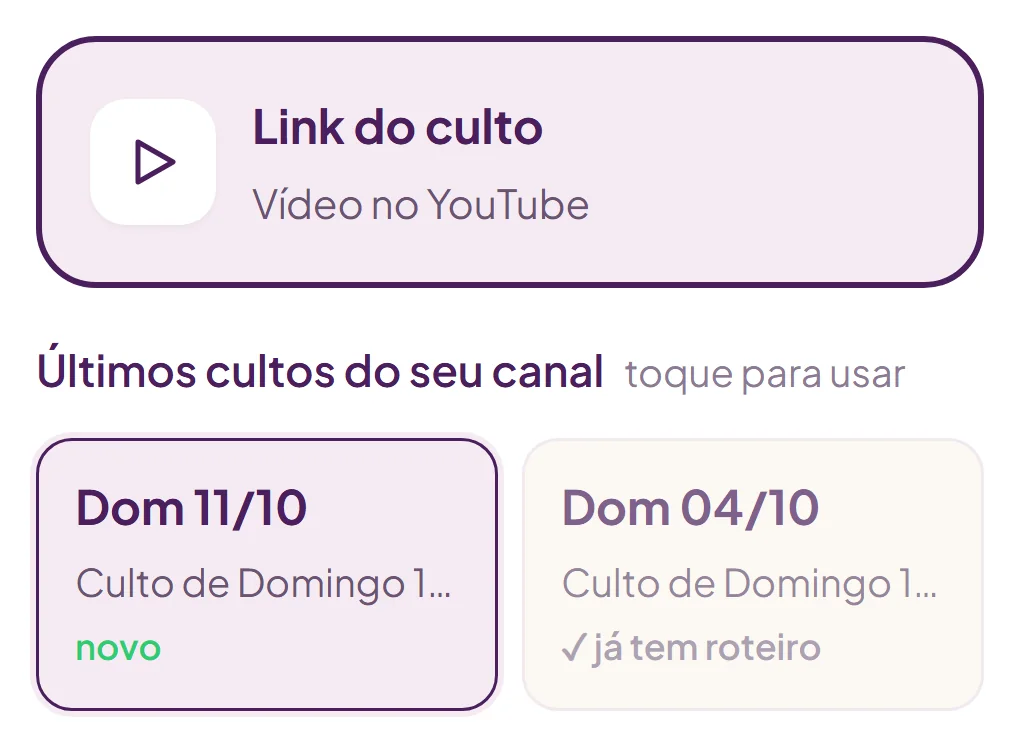
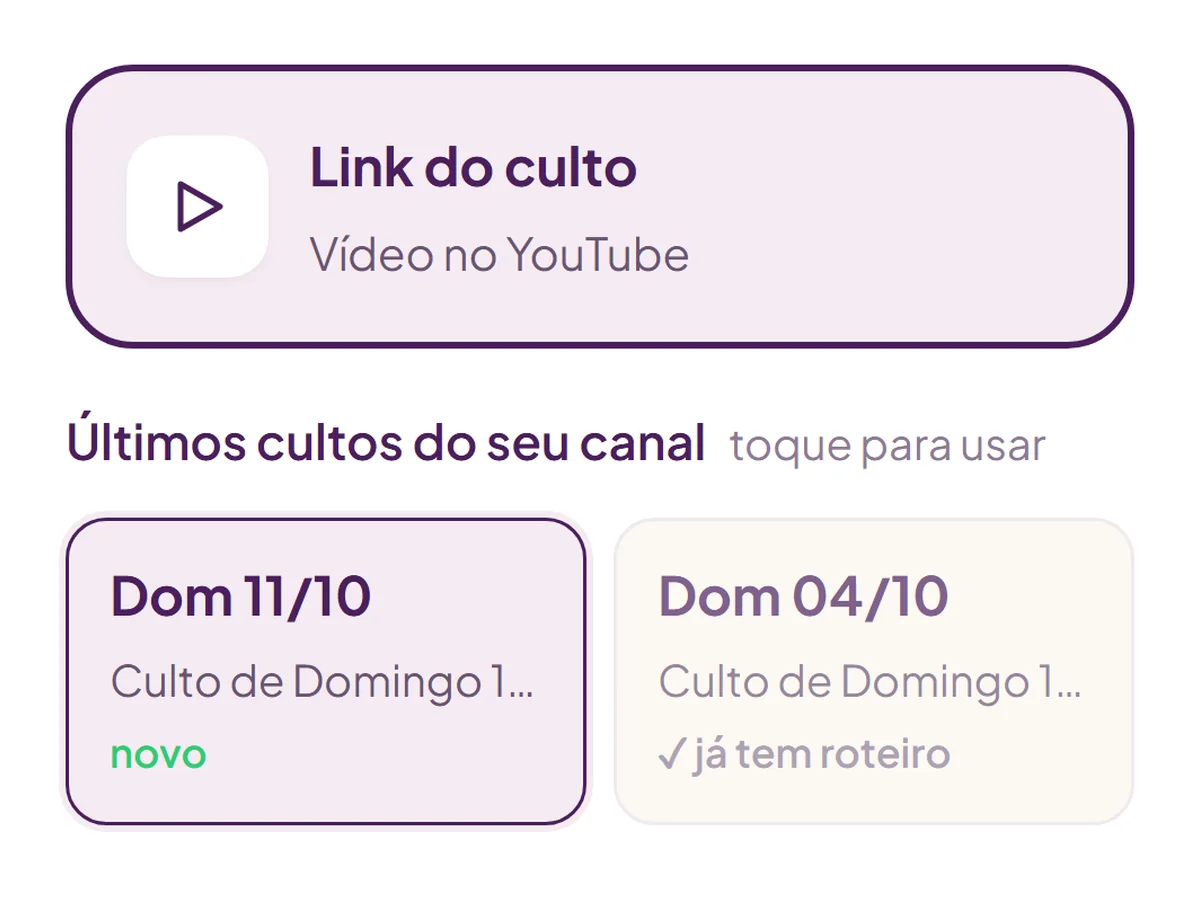
How it works: three images of the same size, step 3 with PDF or WhatsApp
- The three step images share one 4:3 size
- Step 3 shows Baixar como PDF, ou, Enviar pelo WhatsApp

diff --git a/src/routes/index.tsx b/src/routes/index.tsx
@@ -142,8 +142,8 @@ const steps = [
     title: "Escolha o culto",
     text: "O culto de domingo chega sozinho do YouTube. É só tocar nele.",
     img: printPasso1,
-    largura: 1020,
-    altura: 756,
+    largura: 1200,
+    altura: 900,
     alt: "Opção Link do culto e os últimos cultos do canal, com o de domingo marcado como novo",
   },
   {
@@ -151,18 +151,18 @@ const steps = [
     title: "A IA escreve o roteiro",
     text: "Sai da pregação, no modelo e com a logo da sua igreja.",
     img: printPasso2,
-    largura: 1170,
-    altura: 948,
+    largura: 1200,
+    altura: 900,
     alt: "Começo de um roteiro pronto, com a logo da igreja, o título e o quebra-gelo",
   },
   {
     n: "3",
     title: "Revise e envie",
-    text: "Ajuste e mande aos líderes pelo WhatsApp.",
+    text: "Baixe em PDF ou mande aos líderes pelo WhatsApp.",
     img: printPasso3,
-    largura: 502,
-    altura: 141,
-    alt: "Botão Abrir no WhatsApp",
+    largura: 1200,
+    altura: 900,
+    alt: "Botões Baixar como PDF e Enviar pelo WhatsApp",
   },
 ];
 
@@ -614,7 +614,7 @@ function Landing() {
           <ol className="mt-12 grid gap-12 md:grid-cols-3 md:gap-8">
             {steps.map((s) => (
               <li key={s.n} className="flex flex-col">
-                <div className="relative flex items-center justify-center py-2 md:h-52 md:py-0">
+                <div className="relative mx-auto w-full max-w-sm md:max-w-none">
                   <div
                     aria-hidden="true"
                     className="absolute inset-x-6 inset-y-2 -z-10 rounded-full bg-accent/15 blur-2xl"
@@ -626,7 +626,7 @@ function Landing() {
                     height={s.altura}
                     loading="lazy"
                     decoding="async"
-                    className="max-h-44 w-auto max-w-[88%] rounded-2xl shadow-[var(--shadow-lift)] md:max-h-full"
+                    className="aspect-[4/3] w-full rounded-2xl object-cover shadow-[var(--shadow-lift)]"
                   />
                 </div>
                 <div className="mt-6 flex items-center gap-3">
